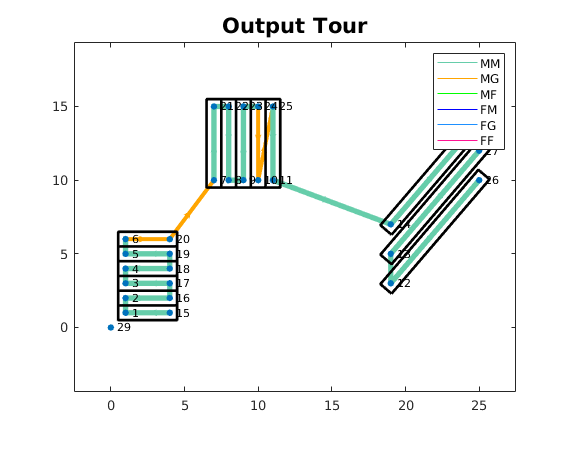
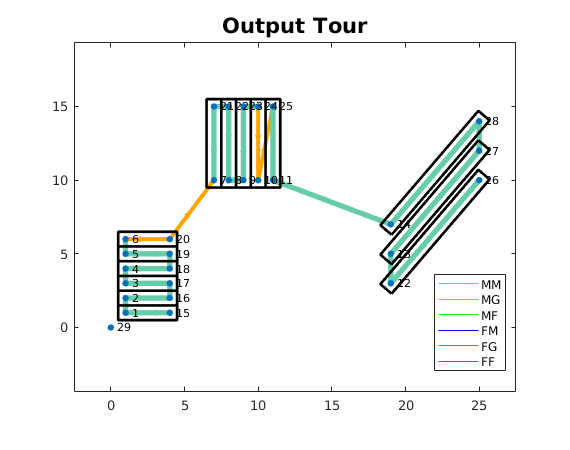
fixed a figure

Changed region(s): [[0.7754, 0.1244, 0.8947, 0.3422], [0.8351, 0.6222, 0.8947, 0.84]]

diff --git a/VTOL/GLNSplotter.m b/VTOL/GLNSplotter.m
@@ -5,10 +5,10 @@
 
 clear
 close all
-load /home/user01/Kevin_Yu/3D_bridge_meshes/coverageVTOL/VTOL/outputs/qualitativeExamples/journalQb1.mat
-load /home/user01/Kevin_Yu/3D_bridge_meshes/coverageVTOL/VTOL/outputs/qualitativeExamples/journalQb3.mat
+load /home/user01/Kevin_Yu/3D_bridge_meshes/coverageVTOL/VTOL/outputs/qualitativeExamples/journalQc1.mat
+load /home/user01/Kevin_Yu/3D_bridge_meshes/coverageVTOL/VTOL/outputs/qualitativeExamples/journalQc3.mat
 
-GLNSSolution = [281, 22, 323, 64, 365, 106, 127, 428, 169, 470, 211, 273, 535, 237, 561] % qualitative b (only multi-rotor flight)
+% GLNSSolution = [281, 22, 323, 64, 365, 106, 127, 428, 169, 470, 211, 273, 535, 237, 561] % qualitative b (only multi-rotor flight)
 % GLNSSolution = [281, 23, 325, 67, 369, 111, 135, 438, 163, 466, 209, 276, 532, 237, 561] % qualitative c (only multi-rotor with down up edges)
 % GLNSSolution = [281, 23, 325, 67, 369, 111, 122, 425, 168, 471, 481, 267, 532, 237, 561] % qualitative d (UGV travel edges)
 % GLNSSolution = [501, 242, 543, 465, 146, 487, 168, 409, 390, 71, 312, 93, 334, 15, 561] % qualitative e (only fixed-wing flight)
